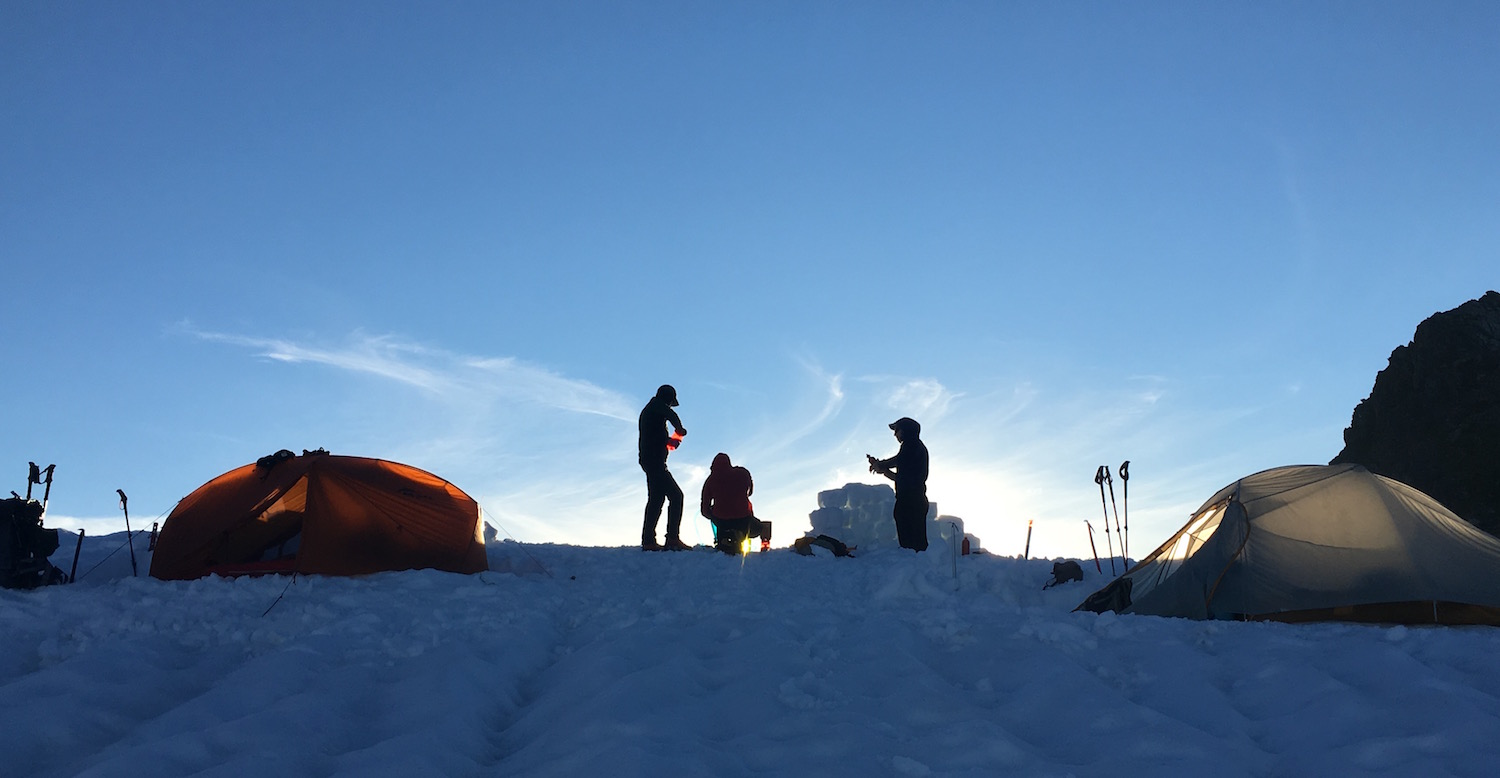
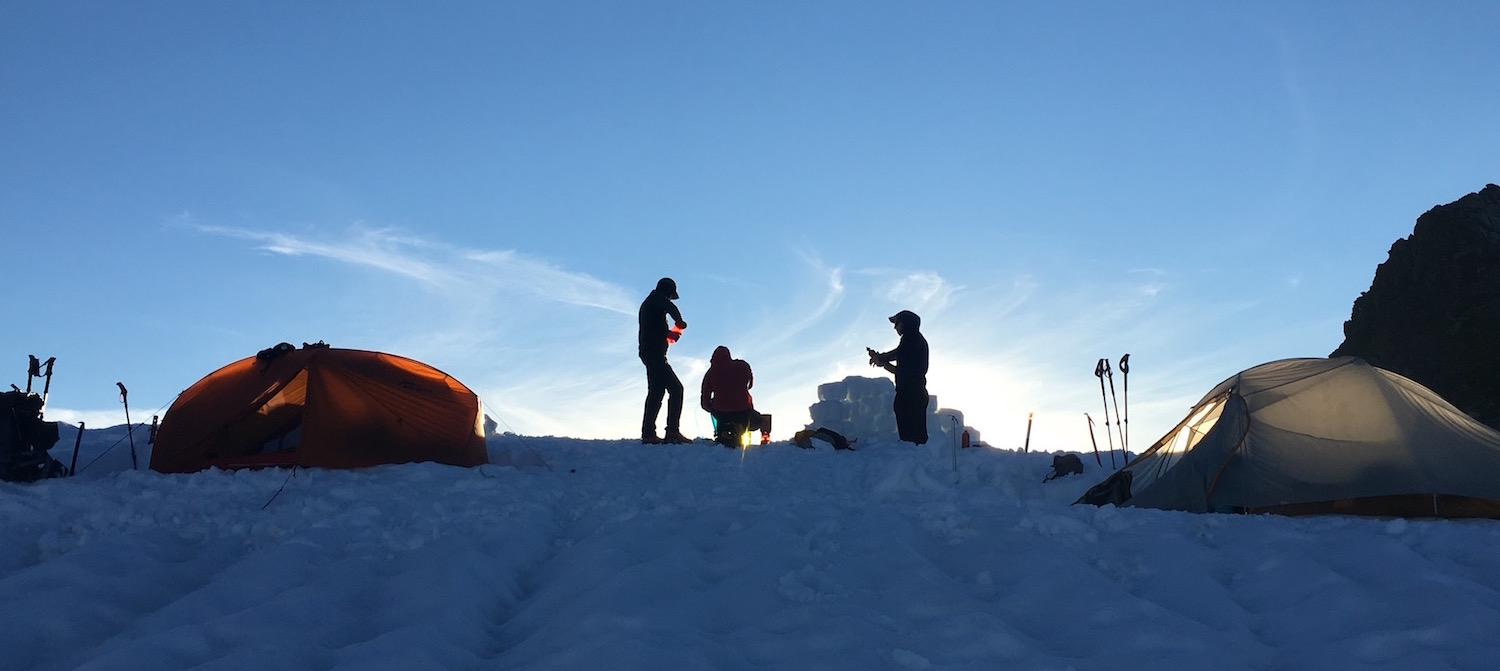
adjust details for large screen width

Changed region(s): [[0.0, 0.2683, 1.0, 0.8346]]

diff --git a/src/NameBanner.js b/src/NameBanner.js
@@ -30,7 +30,9 @@ function NameBanner({ image, opacity }) {
           font-size: .666em;
         }
       `}</style>
-      <h1 id="title" className="title">tyler <span className="last-name">suderman</span></h1>
+      <h1 id="title" className="title">tyler
+        <br/>
+      <span className="last-name">suderman</span></h1>
     </div>
   );
 }

diff --git a/src/defaultState.js b/src/defaultState.js
@@ -1,13 +1,13 @@
 import trail3 from './images/trail3.jpg';
 import trail10 from './images/trail10.jpg';
-import trail14 from './images/trail14.jpg';
+import trail20 from './images/trail20.jpg';
 
 
 export default {
   imageList: {
     trail3,
     trail10,
-    trail14,
+    trail20
   },
   bannerOpacity: 1
 }
